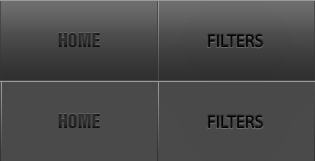
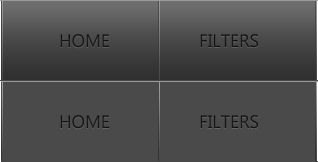
Menu works nicely

diff --git a/web-app/src/views/monster/monsterView.js b/web-app/src/views/monster/monsterView.js
@@ -15,15 +15,13 @@ GetContext('MonsterApp.view.monster').MonsterView = Backbone.View.extend({
     },
 
     render: function() {
+        this.$el.html('');
         this.$el.html(this.template());
         return this;
     },
 
     _collectionReset: function() {
         var self = this;
-//        self.$el.append(
-//            '<select id=\'monsters\'></select>' + '<div id=\'info\'></div>'
-        //);
 
         this.collection.each(function(model) {
             self.$('#monsters').append(
@@ -43,4 +41,5 @@ GetContext('MonsterApp.view.monster').MonsterView = Backbone.View.extend({
 
         self.$('#info').html(monster.get('fullText'));
     }
+
 });

diff --git a/web-app/src/controllers/monsterController.js b/web-app/src/controllers/monsterController.js
@@ -4,11 +4,13 @@ GetContext('MonsterApp.controller').MonsterController = Backbone.Model.extend({
     },
 
     displayMonsters: function() {
+        $('body').empty();
         var view = new MonsterApp.view.monster.MonsterView({collection: MonsterApp.session.get('monsterCollection')});
         $('body').append(view.render().el);
     },
 
     displayMonsterFilters: function() {
+        $('body').empty();
         var view = new MonsterApp.view.monster.MonsterFilterView({collection: MonsterApp.session.get('monsterCollection')});
         $('body').append(view.render().el);
     },

diff --git a/web-app/css/main.css b/web-app/css/main.css
@@ -489,12 +489,12 @@ ul#menu li a span:hover {
 }
 
 /* Shift background position on hover for the class: "home" */
-ul#menu li a.home span {
+ul#menu li a.home:hover {
     background-position:0px -81px;
 }
 
 /* Shift background position on hover for the class: "portfolio" */
-ul#menu li a.filters span {
+ul#menu li a.filters:hover {
     background-position:-159px -81px;
 }
 

diff --git a/web-app/src/views/monster/monsterFilterView.js b/web-app/src/views/monster/monsterFilterView.js
@@ -13,6 +13,7 @@ GetContext('MonsterApp.view.monster').MonsterFilterView = Backbone.View.extend({
     },
 
     render: function() {
+        this.$el.html('');
         this.$el.html(this.template());
         return this;
     }

diff --git a/web-app/src/routers/monsterAppRouter.js b/web-app/src/routers/monsterAppRouter.js
@@ -2,6 +2,7 @@ GetContext('MonsterApp.router').MonsterAppRouter = Backbone.Router.extend({
 
     routes: {
         '': '_home',
+        'home': '_home',
         'info': '_info',
         'filters':'_filters'
     },
